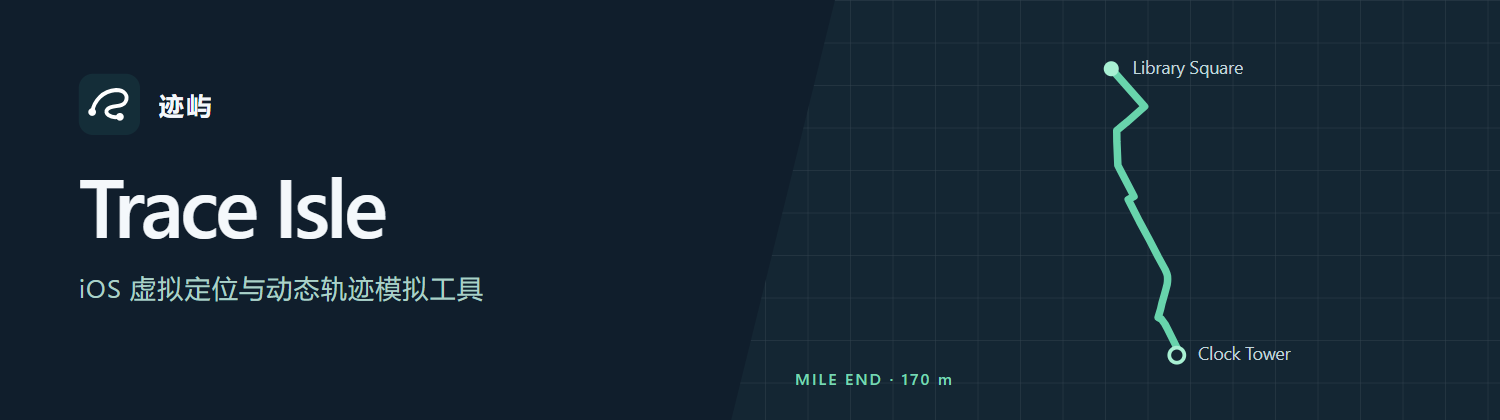
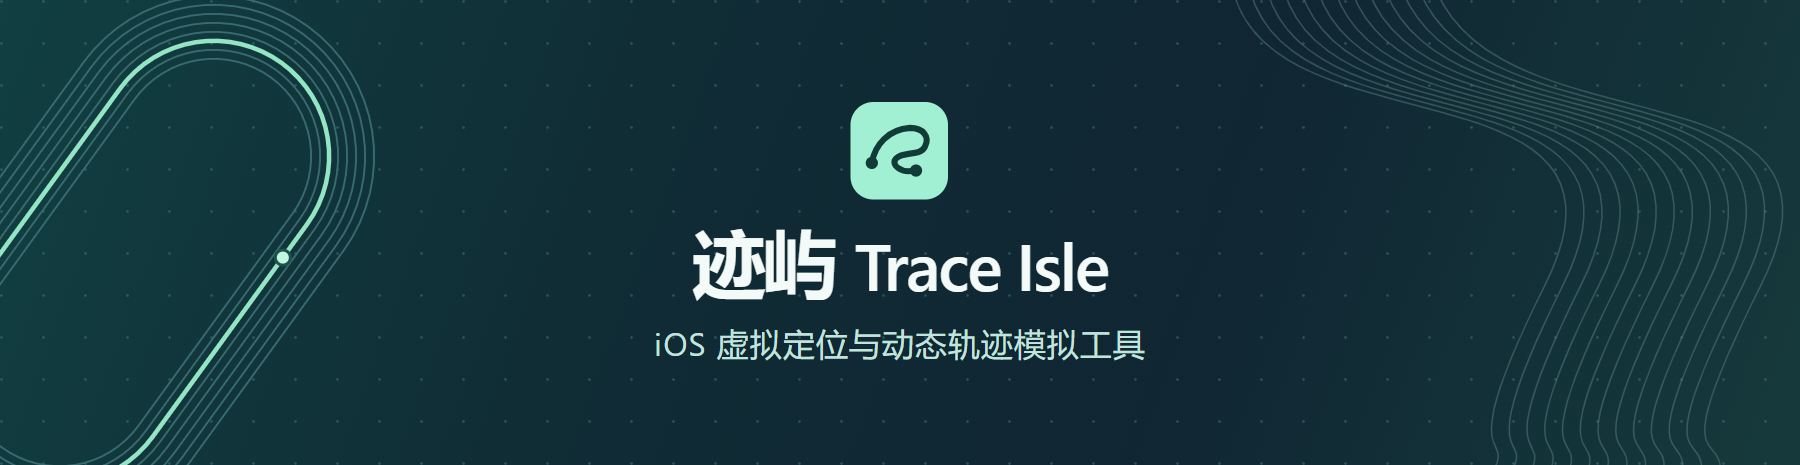
Redesign the README cover and add a thank-you for readers

diff --git a/README.md b/README.md
@@ -1,46 +1,66 @@
-[![迹屿 · Trace Isle — iOS 虚拟定位与动态轨迹模拟工具](docs/images/trace-isle-cover.png)](https://softbread1217.github.io/trace-isle/)
+<p align="center">
+  <a href="https://softbread1217.github.io/trace-isle/"><img src="docs/images/trace-isle-cover.png" width="100%" alt="迹屿 · Trace Isle，iOS 虚拟定位与动态轨迹模拟工具"></a>
+</p>
 
-# 迹屿 · Trace Isle
+<p align="center"><strong>搜到自己的校区，选一条操场跑道，让 iPhone 按设定的距离和配速移动。</strong><br>
+也可以在地图上选一个点，通过 Windows USB 助手直接修改 iPhone 系统定位。</p>
 
-**iOS 虚拟定位与动态轨迹模拟工具。** 搜学校、选校区和操场，设好距离与配速，就能通过 Windows USB 助手在 iPhone 上模拟沿跑道运动。也支持在地图上选一个固定点，直接修改 iPhone 系统定位。
+<p align="center"><kbd>Windows</kbd> &nbsp; <kbd>iOS 17.4+</kbd> &nbsp; <kbd>USB 真机连接</kbd></p>
 
-**[下载 Windows USB 助手与源码](https://github.com/SoftBread1217/trace-isle/archive/refs/heads/main.zip)** · **[打开地图找操场](https://softbread1217.github.io/trace-isle/)**
+<p align="center">
+  <strong><a href="https://softbread1217.github.io/trace-isle/">打开地图找操场 ↗</a></strong>
+  &nbsp; · &nbsp; <strong><a href="https://github.com/SoftBread1217/trace-isle/archive/refs/heads/main.zip">下载 Windows USB 助手</a></strong>
+  &nbsp; · &nbsp; <a href="#快速上手">快速上手 ↓</a>
+</p>
 
 ## 按校区找操场
 
-搜索「北邮」，可以分别选择海淀、沙河或海南校区。选择海淀校区后，列表里会出现西土城路校区田径场；海南校区使用的黎安园区共享体育场会单独标明。选择已收录的场地即可载入跑道，有些场地提供可调整的估算路线，省去沿弯道逐点描线的工夫。
+搜「北邮」，可以分别选择海淀、沙河和海南校区。选海淀，就能载入**西土城路校区田径场**；选海南，则会看到标有**园区共享**的黎安园区体育场。选好场地即可载入路线，省去沿弯道逐点描线的工夫。
 
-自动推荐会检查场地完整轮廓和初始路线是否都在所选校区的地图边界内，避免把隔壁学校的操场算进来。归属有歧义时跳过该候选；缺少校界或场地数据时，可以在地图上手动指定操场。
+| 校园数据 | 收录情况 |
+| :--- | :--- |
+| **3,598** 条学校或校区记录 | 同一所大学可以按校区分别查找 |
+| **939** 条记录关联了场地 | 可选择已收录的操场，使用地图跑道或可调整的估算路线 |
 
-2026-11-23 的索引收录 **3,598 条学校或校区记录**，其中 **939 条关联了至少一个场地**。同一所大学可有多个校区条目。[校园数据与匹配规则](campus-data/README.md)
-
-## 校园跑应用测试
-
-例如，测试校园跑 App 的跨圈里程统计时，可以选择「武汉大学 → 桂园操场」，将目标距离设为 **2 公里**、配速设为 **6:00/公里**。iPhone 会沿所选跑道逆时针模拟运动，连续模拟约 **12 分钟**后到达终点。在待测 App 中可以核对每次经过起点时里程是否连续、最终记录的轨迹是否落在操场内。用同一路线和参数再测一次，就能比较两个版本的记录结果。
+自动推荐会核对场地完整轮廓和初始路线是否都在所选校区的地图边界内，避免把隔壁学校的操场算进来。归属有歧义时会跳过该候选；缺少校界或场地数据时，可以手动指定操场。以上数字取自 2026-11-23 的索引。[校园数据与匹配规则](campus-data/README.md)
 
 ## 核心功能
 
-- **固定点定位** · 点击地图或输入经纬度，将一个位置写入 iPhone。
-- **动态模拟** · 选择校园跑道、自定义打点或导入 GPX。闭合跑道可连续绕圈，开放路线可沿原路折返。
-- **运动控制** · 自定义目标距离和每公里配速，查看实时进度，支持暂停、继续和重置。
-- **USB 设备控制** · 查看连接与同步状态，结束后可恢复真实定位。
+| 功能 | 在 iPhone 上可以做什么 |
+| :--- | :--- |
+| 📍 **固定点定位** | 点击地图或输入经纬度，把所选位置设为 iPhone 的系统定位。 |
+| 🏟 **动态轨迹** | 选校园跑道、自定义打点或导入 GPX。闭合跑道支持逆时针绕圈，开放路线可沿原路折返。 |
+| ⏱ **距离与配速** | 按公里设置目标距离，按分:秒/公里设置配速。模拟时可查看进度、暂停、继续或重置。 |
+| 🔌 **USB 设备控制** | 查看连接与同步状态，结束测试后恢复真实定位。 |
+
+[![迹屿的路线地图与模拟控制面板，显示伦敦玛丽女王大学 Mile End 校园步道](docs/images/mile-end-workspace.png)](https://softbread1217.github.io/trace-isle/?preset=mile-end)
 
 ## 快速上手
 
-环境：Windows、Apple Devices、Python 3.12、支持数据传输的 USB 线。iPhone 需运行 iOS 17.4 或以上版本，并能启用开发者模式。
+准备一台装有 **Apple Devices** 和 **Python 3.12** 的 Windows 电脑、一部支持开发者模式的 **iOS 17.4 或以上版本**的 iPhone，以及一根能传输数据的 USB 线。
 
-1. **连接 iPhone。** 解压项目，运行 `Start-Windows-USB.cmd` 并保持窗口打开。在[本机 USB 控制台](http://127.0.0.1:4179/)点右上角「iPhone」→「连接 USB iPhone」。解锁手机，按提示信任电脑并开启开发者模式。
-2. **选择定位模式。** 使用「固定点定位」时，点击地图或输入坐标，再点「应用固定点」。使用「动态轨迹」时，搜索学校并选择操场，点「使用这条跑道」；也可以展开「自定义路线」，在地图上打点后点「完成画线」。
-3. **设置并开始模拟。** 输入目标距离与配速，例如 `2 km`、`6:00/km`，点「开始模拟」。模拟期间保持页面在前台；暂停会停在当前位置，重置动态模拟会回到起点。结束后在 iPhone 设置弹窗点「恢复真实定位」，在手机地图确认后断开。
+1. **连接 iPhone。** 解压下载的项目，运行 `Start-Windows-USB.cmd` 并保持窗口打开。在[本机 USB 控制台](http://127.0.0.1:4179/)点右上角「iPhone」→「连接 USB iPhone」。解锁手机，按提示信任电脑并开启开发者模式。
+2. **选点或选路线。** 定点时在地图上选点或输入坐标，再点「应用固定点」。动态模拟时搜索学校、选择操场，点「使用这条跑道」；也可以展开「自定义路线」，打点后点「完成画线」。
+3. **开始动态模拟。** 填入目标距离和配速，点「开始模拟」，并保持电脑上的控制台页面在前台。暂停会停在当前位置，重置会回到起点。结束时在 iPhone 设置弹窗点「恢复真实定位」，在手机地图确认后断开。
 
-在线地图可用于规划路线。向真机写入定位时，需进入本机控制台并连接 iPhone。
+在线地图可直接用于规划路线；向真机写入位置需连接本机 USB 控制台。
 
-[![迹屿界面：固定点定位、动态轨迹、目标距离、配速及 USB 设备状态](docs/images/mile-end-workspace.png)](https://softbread1217.github.io/trace-isle/?preset=mile-end)
+## 校园跑应用测试
+
+**武汉大学 · 桂园操场**　｜　目标 **2 公里**　｜　配速 **6:00/公里**　｜　预计 **12 分钟**
+
+在 iPhone 上打开待测校园跑 App，使用这组参数沿跑道逆时针模拟。每次经过起点时，检查 App 的累计里程是否连续；结束后，将记录轨迹与操场位置对照。升级 App 后用相同路线和参数再测一次，就能比较两个版本的记录结果。
 
 ## 数据与测试
 
-校区和场地来自 [OpenStreetMap](https://www.openstreetmap.org/copyright)。校园匹配规则及数据许可见[校园数据说明](campus-data/README.md)。封面与截图使用伦敦玛丽女王大学 [Mile End 校区](https://www.qmul.ac.uk/about/howtofindus/mileend/)步道。地图引擎采用 [Leaflet](vendor/LICENSE)。
+校区和场地来自 OpenStreetMap 贡献者。校园索引可按 ODbL 1.0 复用，地图使用 Leaflet。界面截图取自伦敦玛丽女王大学 Mile End 校区步道。[地图数据署名](https://www.openstreetmap.org/copyright) · [校园数据说明](campus-data/README.md) · [Leaflet 许可](vendor/LICENSE) · [Mile End 校区](https://www.qmul.ac.uk/about/howtofindus/mileend/)
 
 ```sh
 node --test tests/*.test.mjs
 ```
+
+---
+
+<p align="center"><strong>感谢使用迹屿！</strong><br>
+如果迹屿帮你找到了学校的跑道，或帮你测好了一个定位功能，欢迎点一下仓库右上角的 <a href="https://github.com/SoftBread1217/trace-isle"><strong>☆ Star</strong></a>。<br>
+发现操场标错了？欢迎在 <a href="https://github.com/SoftBread1217/trace-isle/issues">Issues</a> 留下学校、校区和场地名称。</p>
